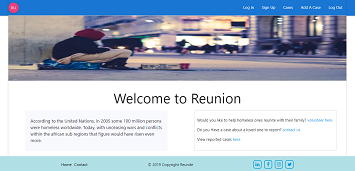
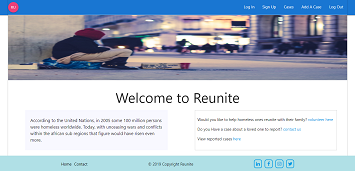
Added a hamburger menu for mobile

diff --git a/src/Components/hamburgerMenu.jsx b/src/Components/hamburgerMenu.jsx
@@ -1,0 +1,89 @@
+import React, { useState } from "react";
+import { NavLink } from "react-router-dom";
+import { FontAwesomeIcon } from "@fortawesome/react-fontawesome";
+import { faBars, faTimes } from "@fortawesome/free-solid-svg-icons";
+import styled from "styled-components";
+
+function Nav() {
+    const [isSidebarOpen, setisSidebarOpen] = useState(false);
+
+    const handleMenuButton = () => {
+        setisSidebarOpen(!isSidebarOpen)
+    };
+    return (
+        <StyledDiv>
+            <div className="menu-button" onClick={handleMenuButton}><FontAwesomeIcon icon={faBars} size="2x" /></div>
+            <nav className={`nav ${isSidebarOpen ? 'show' : ''}`}>
+                <div className="close" onClick={handleMenuButton}><FontAwesomeIcon icon={faTimes} size="1x" /></div>
+                <div className="menu-items">
+                    <div className="menu-list"><NavLink to="/">Home</NavLink></div>
+                    <div className="menu-list"><NavLink to="/about">About</NavLink></div>
+                    <div className="menu-list"><NavLink to="/skills">Skills</NavLink></div>
+                    <div className="menu-list"><NavLink to="/project">Project</NavLink></div>
+                    <div className="menu-list"><NavLink to="/contact">Contact</NavLink></div>
+                </div>
+            </nav>
+        </StyledDiv>
+
+    )
+}
+
+export default Nav;
+
+const StyledDiv = styled.div`
+position: relative;
+display: none;
+
+.menu-button{
+    position: relative;
+    z-index: 99;
+    cursor: pointer;
+}
+.menu-items{
+    padding: 0;
+    margin: 0;
+    background-color: #282828;
+}
+a{
+    text-decoration: none;
+    color: #fff;
+    display: flex;
+    padding: 10px 16px;
+    border-bottom: 1px solid #555;
+}
+
+a:hover {
+    color: #fff !important;
+    background: #696969;
+    padding-bottom: 5px;
+  }
+
+.nav {
+    width: 20vw;
+    border-width: 1px 1px 1px 0;
+    border-style: solid;
+    border-color: #888;
+    position: absolute;
+    top: 0;
+    z-index: 999;
+    background-color: #fff;
+    left: -22vw;
+    -webkit-transition: left 0.3s ease-in;
+    -o-transition: left 0.3s ease-in;
+    transition: left 0.3s ease-in;
+}
+.nav.show{
+    left: 0;
+}
+
+.close {
+    padding: 8px 9px;
+    display: flex;
+    justify-content: flex-end;
+}
+
+@media only screen and (max-width: 490px){
+    display: block;
+  }
+
+`

diff --git a/public/index.html b/public/index.html
@@ -1,21 +1,19 @@
 <!DOCTYPE html>
 <html lang="en">
-  <head>
-    <meta charset="utf-8" />
-    <link rel="icon" href="%PUBLIC_URL%/favicon.ico" />
-    <meta name="viewport" content="width=device-width, initial-scale=1" />
-    <meta name="theme-color" content="#000000" />
-    <meta
-      name="description"
-      content="Web site created using create-react-app"
-    />
-    <link rel="apple-touch-icon" href="%PUBLIC_URL%/logo192.png" />
-    <!--
+
+<head>
+  <meta charset="utf-8" />
+  <link rel="icon" href="%PUBLIC_URL%/favicon.ico" />
+  <meta name="viewport" content="width=device-width, initial-scale=1" />
+  <meta name="theme-color" content="#000000" />
+  <meta name="description" content="Web site created using create-react-app" />
+  <link rel="apple-touch-icon" href="%PUBLIC_URL%/logo192.png" />
+  <!--
       manifest.json provides metadata used when your web app is installed on a
       user's mobile device or desktop. See https://developers.google.com/web/fundamentals/web-app-manifest/
     -->
-    <link rel="manifest" href="%PUBLIC_URL%/manifest.json" />
-    <!--
+  <link rel="manifest" href="%PUBLIC_URL%/manifest.json" />
+  <!--
       Notice the use of %PUBLIC_URL% in the tags above.
       It will be replaced with the URL of the `public` folder during the build.
       Only files inside the `public` folder can be referenced from the HTML.
@@ -24,12 +22,13 @@
       work correctly both with client-side routing and a non-root public URL.
       Learn how to configure a non-root public URL by running `npm run build`.
     -->
-    <title>Martins O-U</title>
-  </head>
-  <body>
-    <noscript>You need to enable JavaScript to run this app.</noscript>
-    <div id="root"></div>
-    <!--
+  <title>Martins O-U</title>
+</head>
+
+<body>
+  <noscript>You need to enable JavaScript to run this app.</noscript>
+  <div id="root"></div>
+  <!--
       This HTML file is a template.
       If you open it directly in the browser, you will see an empty page.
 
@@ -39,5 +38,6 @@
       To begin the development, run `npm start` or `yarn start`.
       To create a production bundle, use `npm run build` or `yarn build`.
     -->
-  </body>
+</body>
+
 </html>

diff --git a/src/Components/HomePage.jsx b/src/Components/HomePage.jsx
@@ -78,7 +78,6 @@ const HomeDiv = styled.div`
 
 const HomeDisplay = styled.div`
   display: flex;
-  flex-direction: row;
   margin: 5% auto;
   text-align: center;
   max-width: calc(100%-50px);
@@ -93,6 +92,16 @@ const HomeDisplay = styled.div`
       border-radius: 50%;
       width: 260px;
     }
+    @media only screen and (max-width: 750px){
+      img{
+        width: 220px;
+      }
+    }
+    @media only screen and (max-width: 500px){
+      img{
+        width: 190px;
+      }
+    }
   }
 
   .intro {
@@ -101,6 +110,19 @@ const HomeDisplay = styled.div`
   }
   p {
     margin-bottom: 30px;
+  }
+
+  @media only screen and (max-width: 600px){
+    margin-top: 10%;
+    flex-direction: column;
+    
+  .intro {
+    width: 95%;
+  }
+
+  .self {
+    width: 95%;
+  }
   }
 `;
 

diff --git a/src/App.jsx b/src/App.jsx
@@ -8,6 +8,7 @@ import AboutMe from "./Components/AboutMe";
 import Skills from "./Components/Skills";
 import Projects from "./Components/Projects";
 import SingleProjectInfo from "./Components/SingleProjectInfo";
+import Menu from "./Components/hamburgerMenu";
 
 const StyledDiv = styled.div`
   height: 100vh;
@@ -26,6 +27,7 @@ function App() {
   return (
     <StyledDiv>
       <Navbar />
+      <Menu />
       <Route exact path="/" component={Home} />
       <Route path="/about" component={AboutMe} />
       <Route path="/skills" component={Skills} />

diff --git a/src/Components/Skills.jsx b/src/Components/Skills.jsx
@@ -141,11 +141,10 @@ const Container = styled.div`
     }
   } 
 
-  @media only screen and (max-width: 380px){
+  @media only screen and (max-width: 490px){
     h1{
-      margin-top: 18%;
+      margin-top: 8%;
     }
-  } 
 `;
 const StyledDiv = styled.div`
   margin-top: 1.5%;

diff --git a/src/Components/AboutMe.jsx b/src/Components/AboutMe.jsx
@@ -116,9 +116,9 @@ const StyledContainer = styled.div`
     }
   } 
 
-  @media only screen and (max-width: 370px){
+  @media only screen and (max-width: 490px){
     h1{
-      margin-top: 18%;
+      margin-top: 8%;
     }
 `;
 const StyledDiv = styled.div`

diff --git a/src/Components/Projects.jsx b/src/Components/Projects.jsx
@@ -229,9 +229,9 @@ const StyledDiv = styled.div`
       margin-top: 15%;
     }
   } 
-
-  @media only screen and (max-width: 370px){
+  
+  @media only screen and (max-width: 490px){
     h1{
-      margin-top: 18%;
+      margin-top: 8%;
     }
 `;

diff --git a/src/Components/Navbar.jsx b/src/Components/Navbar.jsx
@@ -65,4 +65,10 @@ const Headers = styled.header`
     border-right: solid 0.75em transparent;
     border-top: solid 0.6em #282828;
   }
+
+  @media only screen and (max-width: 490px){
+    nav {
+      display: none;
+    }
+  }
 `;
